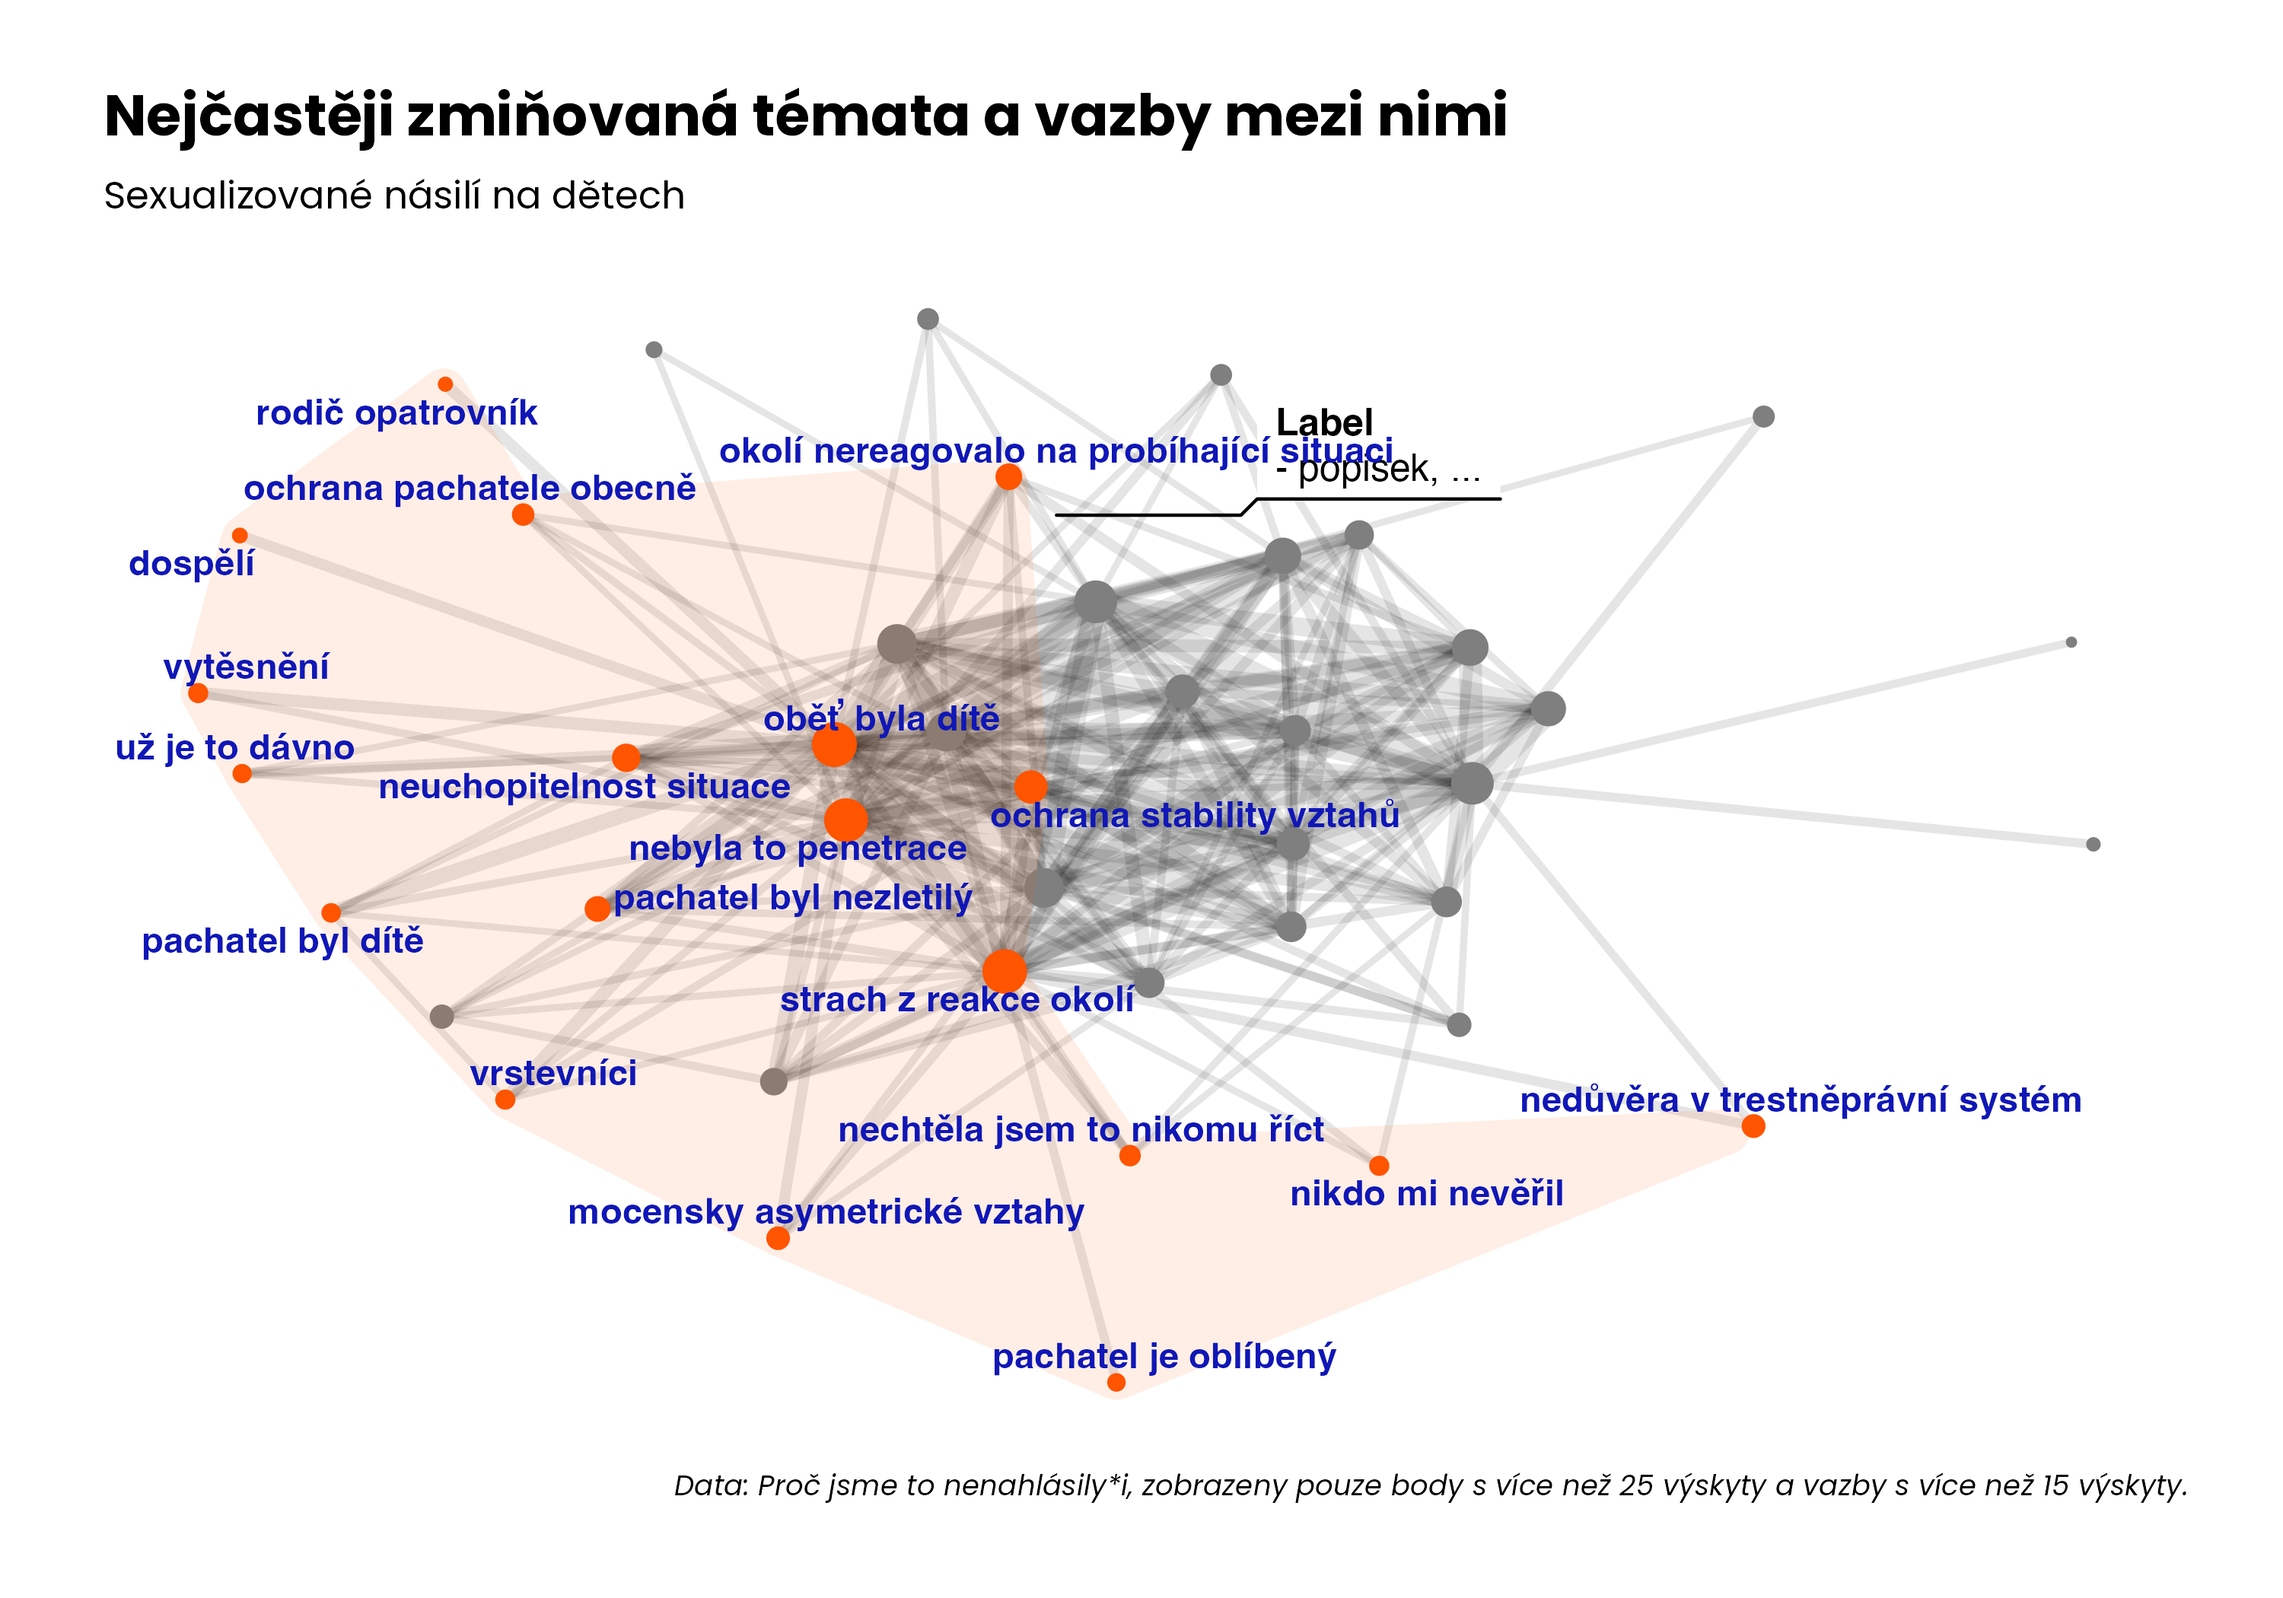
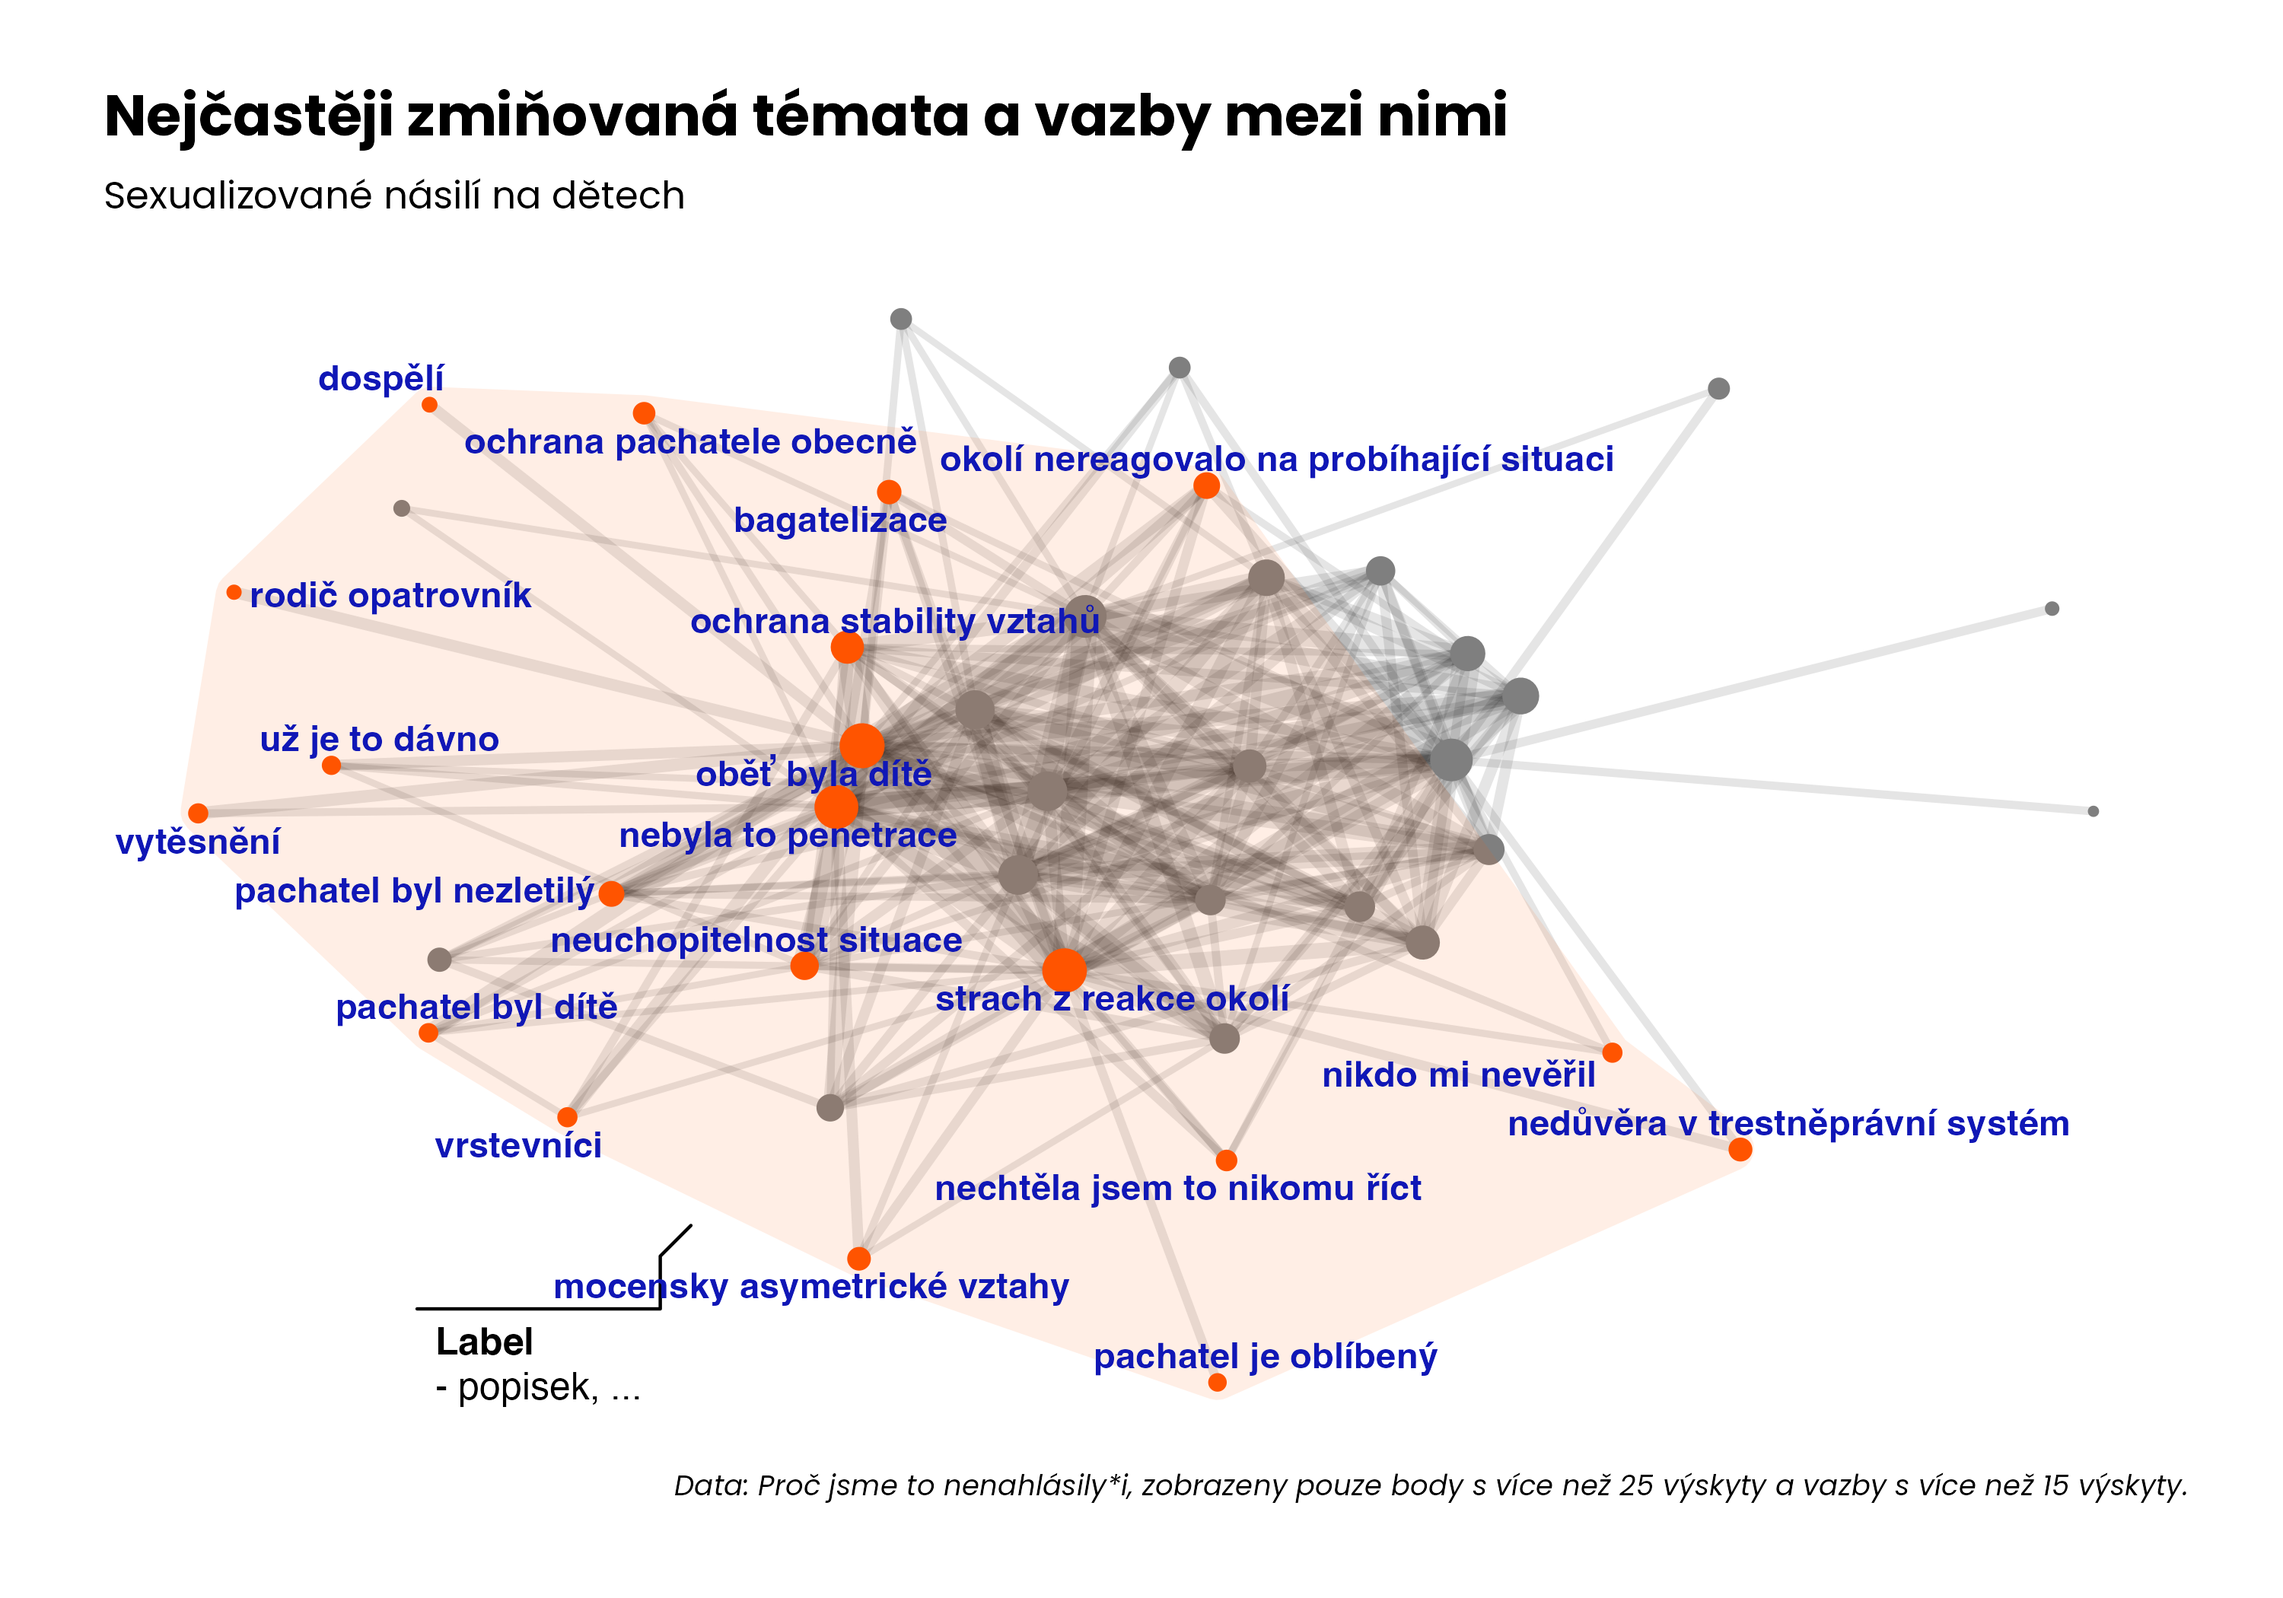
Update charts and add relationships chart

Changed region(s): [[0.062, 0.1857, 0.93, 0.8976]]

diff --git a/README.md b/README.md
@@ -1,0 +1,25 @@
+## README
+
+Replikační materiály pro vizualizace k projektu "Proč oběti nenahlašují připady sexualizovaného násilí?".
+
+## Grafy četností témat (kódů) zmiňovaných oběťmi
+
+![](figs/sankey_charakteristika.png)
+
+![](figs/sankey_vztahy.png)
+
+![](figs/sankey_pachatel.png)
+
+![](figs/sankey_prezivsi.png)
+
+## Grafy vazeb mezi tématy
+
+![](figs/graf_celkovy.png)
+
+Detekce komunit pomocí Louvain method.
+
+![](figs/graf_komponenta1_deti.png)
+
+![](figs/graf_komponenta2_alko.png)
+
+![](figs/graf_komponenta3_partneri.png)
